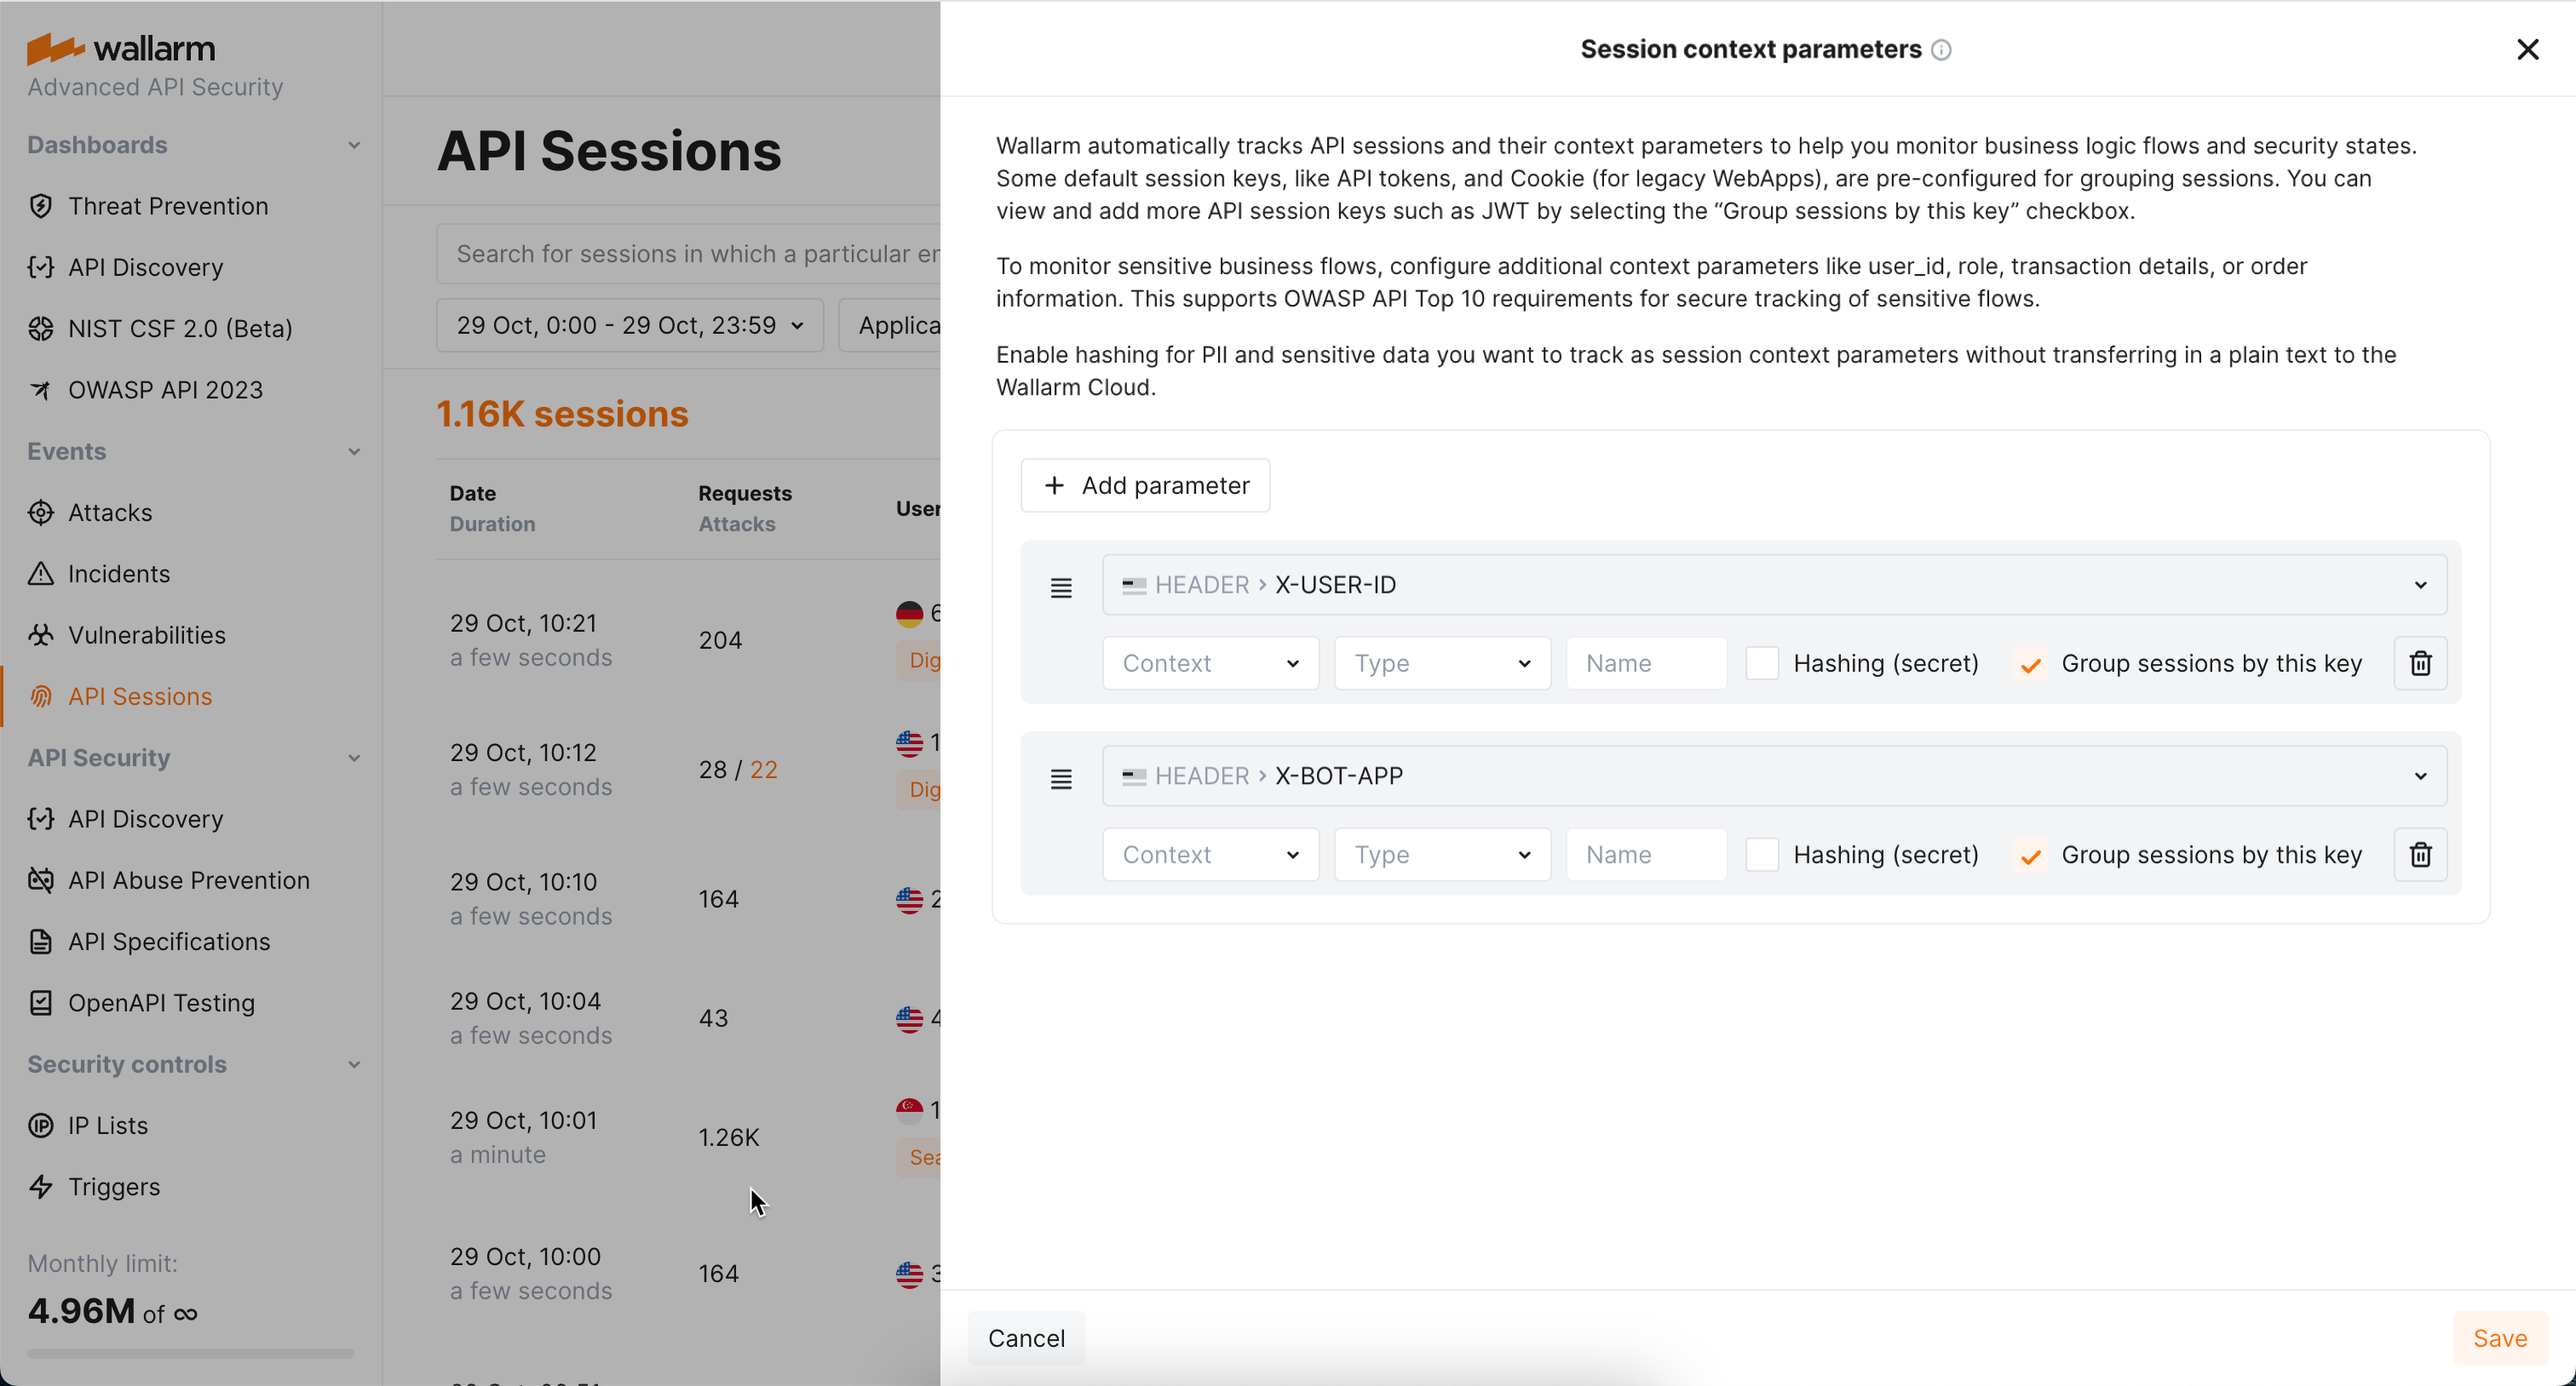
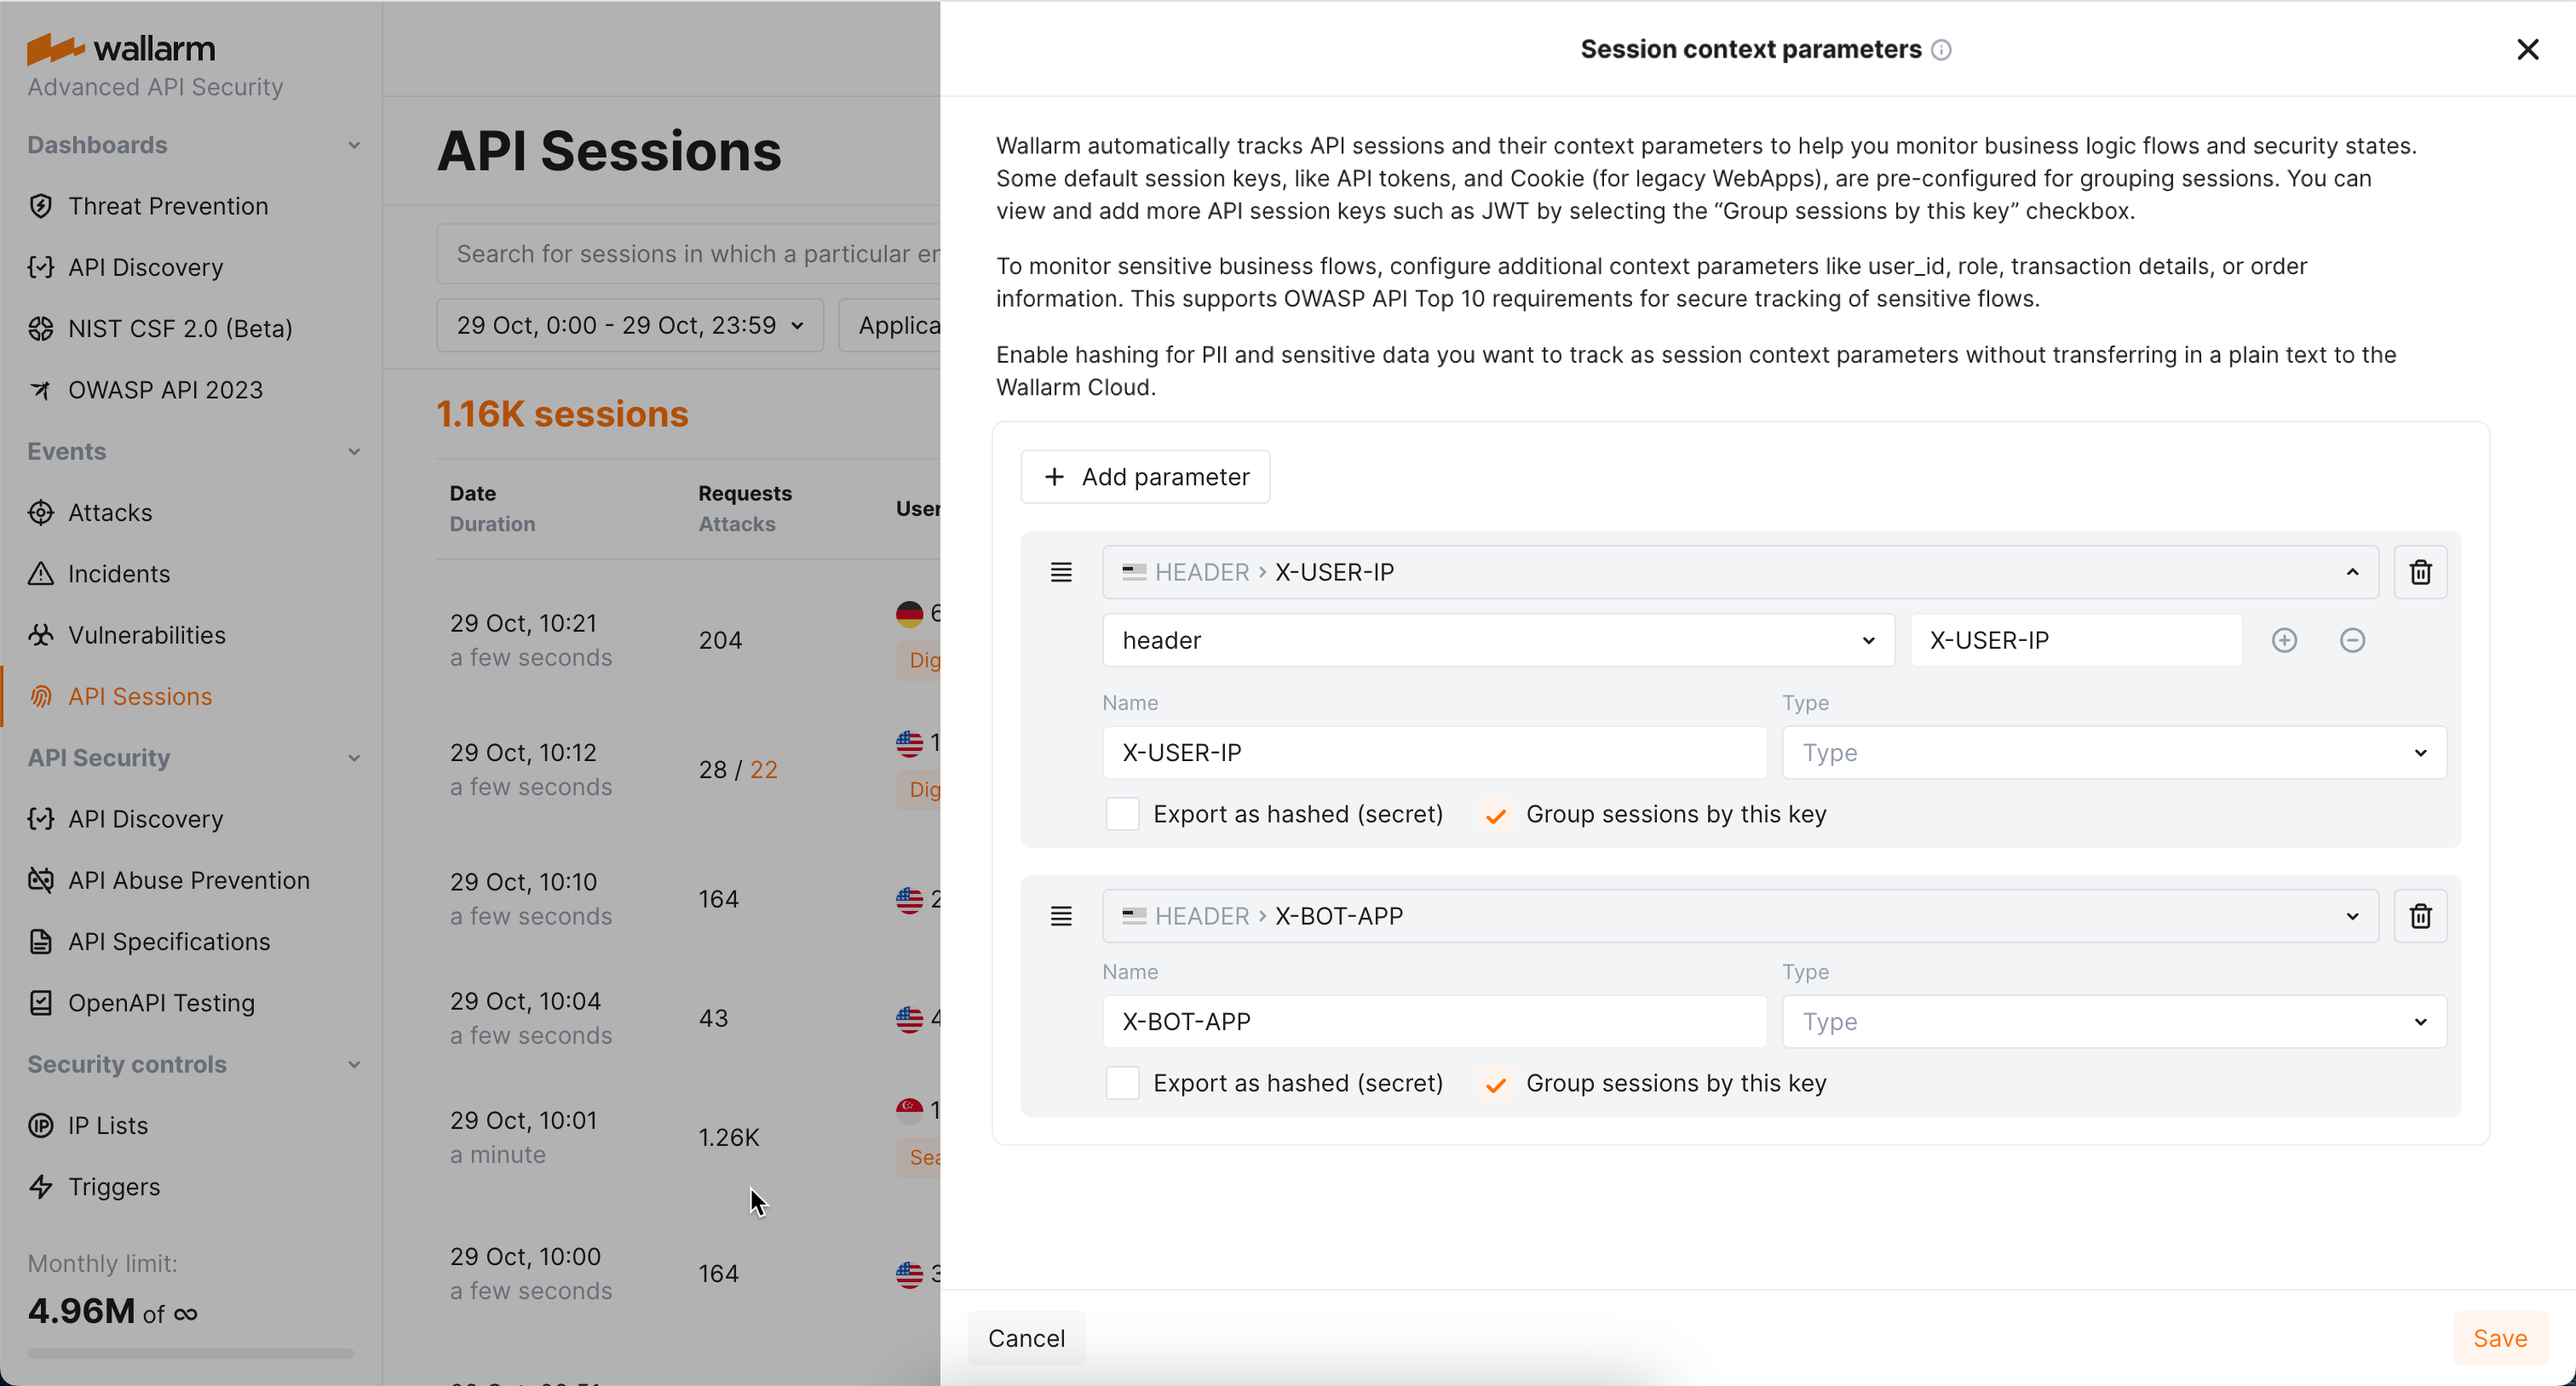
DOCS-2462 SBF and user attribution

diff --git a/docs/latest/api-discovery/sbf.md b/docs/latest/api-discovery/sbf.md
@@ -1,6 +1,6 @@
 # Sensitive Business Flows <a href="../../about-wallarm/subscription-plans/#waap-and-advanced-api-security"><img src="../../images/api-security-tag.svg" style="border: none;"></a>
 
-Wallarm's [API Discovery](overview.md) allows marking specific endpoints as the key ones for some sensitive business flows, such as authentication or account management, billing or SMS gateways functioning, and others. Learn from this article how to use the sensitive business flow functionality.
+Wallarm's [API Discovery](overview.md) automatically marks specific endpoints as the key ones for some sensitive business flows, such as authentication or account management, billing or SMS gateways functioning, and others. Learn from this article how to use the sensitive business flow functionality.
 
 ## Addressed issues
 
@@ -11,15 +11,9 @@ The abuse of the sensitive business flows is ranked six ([API6](https://owasp.or
 * Implement stronger security measures (e.g., encryption, authentication, access controls, and rate limits).
 * Easily produce audit trails and evidence of data protection measures.
 
-## Marking endpoints manually
+## Automatic marking
 
-To mark an endpoint as belonging to the sensitive business flow, in Wallarm Console, go to API Discovery, then for your endpoint, in the **Business flow & sensitive data**, select one or several flows from the list.
-
-![API Discovery - Sensitive business flows](../images/about-wallarm-waf/api-discovery/api-discovery-sbf.png)
-
-You can do the same in the endpoint details.
-
-The endpoint can belong to:
+At the moment when the new endpoint is discovered, API Discovery automatically checks if it potentially belongs to one or several sensitive business flows:
 
 * **Admin** (administrative) flows - endpoints related to applications' administrative functions and activities. Such endpoints are usually targeted by attackers in order to access functionality intended for privileged users only (BFLA), escalate privileges and gaining control over the system.
 * **Auth** (authentication) flows - endpoints critical to access control, as they verify user identity and manage permissions. As the entry point to the app, they are often the first target for attackers seeking to bypass security, gain unauthorized access, and take over accounts.
@@ -27,6 +21,26 @@ The endpoint can belong to:
 * **Billing** flows - sensitive due to usage and possible breach of critical personal financial data and susceptible to fraud.
 * **SMS GW** (SMS gateway) flows - endpoints sensitive because attackers can exploit them in SMS pumping attacks, flooding them with messages to inflate costs. Since these endpoints are connected to API gateways and payment systems, this can lead to financial loss and system overload.
 * **AI** (artificial intelligence) flows - related to the systems that use ML models, neural networks, chatbots or systems that in turn access some paid third-party AI services, such as OpenAI.
+
+Automatic checking is performed based on the keywords from the endpoint URL, for example, `payment`, `subscription` `purchase`, etc. for the **Billing** flow or `auth`, `token`, `login`, etc. for **Authentication**. If matches are found, the endpoint is automatically assigned to the corresponding flow(s).
+
+If necessary, later you can manually adjust the list of assigned business flows as described in the section below.
+
+## Marking endpoints manually
+
+To adjust the results of [automatic marking](#automatic-marking), you can manually edit the list of sensitive business flow the endpoint belongs to. You can also manually mark endpoints that do not directly fall under the keyword list.
+
+To edit the list of flows the endpoint belongs to, in Wallarm Console, go to API Discovery, then for your endpoint, in the **Business flow & sensitive data**, select one or several flows from the list.
+
+![API Discovery - Sensitive business flows](../images/about-wallarm-waf/api-discovery/api-discovery-sbf.png)
+
+You can do the same in the endpoint details.
+
+## Business flows in Sessions
+
+Wallarm's [API Sessions](../api-sessions/overview.md) group requests of your applications' traffic into user sessions. If some of these requests target the endpoints that in API Discovery were marked as important for some sensitive business flows, such session will be [marked](../api-sessions/setup.md#sensitive-business-flows) as affecting this business flow as well.
+
+![!API Sessions - sensitive business flows](../images/api-sessions/api-sessions-sbf-no-select.png)
 
 ## Filtering by business flow
 

diff --git a/docs/latest/api-sessions/setup.md b/docs/latest/api-sessions/setup.md
@@ -21,15 +21,28 @@ You can add any additional (context) [parameters](../user-guides/rules/request-p
 
 ### Sensitive business flows
 
-You can associate sessions with sensitive business flows. To do so, in Wallarm Console → **API Sessions** → **Session context parameters**, add your parameter and select **Context** for it.
+<!--You can associate sessions with sensitive business flows. To do so, in Wallarm Console → **API Sessions** → **Session context parameters**, add your parameter and select **Context** for it.
 
 ![!API Sessions - sensitive business flows](../images/api-sessions/api-sessions-sbf-select.png)
+-->
 
-### User and role
+If some of the session requests target the endpoints that in [API Discovery](../api-discovery/overview.md) were [marked](../api-discovery/sbf.md) as important for some sensitive business flows, such session will be marked as affecting this business flow as well.
 
-You can highlight session parameters, that should be used for naming the session actor (user) and its role. To do so, in Wallarm Console → **API Sessions** → **Session context parameters**, add your parameter, then from **Type**, select `User` or `Role`.
+![!API Sessions - sensitive business flows](../images/api-sessions/api-sessions-sbf-no-select.png)
 
-![!API Sessions - user and user role](../images/api-sessions/api-sessions-user-role-select.png)
+Wallarm lists business flows and displays number and percentage of requests related to the flow from the total number of session requests.
+
+Use the **Business flow** filter to quickly analyze all the sessions affecting specific flows.
+
+### Users and roles
+
+You can highlight session parameters, that should be used for naming the session user and its role. To do so, in Wallarm Console → **API Sessions** → **Session context parameters**, add your parameter, then from **Type**, select `User` or `Role`.
+
+![!API Sessions - user and user role setup](../images/api-sessions/api-sessions-user-role-select.png)
+
+Once you configured parameters to be used for user and his/her role identification, these parameters are started to be filled for the sessions. You can filter sessions by users and roles.
+
+![!API Sessions - user and user role display](../images/api-sessions/api-sessions-user-role-display.png)
 
 ## Session grouping
 

diff --git a/docs/latest/api-sessions/exploring.md b/docs/latest/api-sessions/exploring.md
@@ -45,6 +45,12 @@ Click **Explore in API Discovery** to switch to the endpoint information in the 
 
 Use the **Time,ms** and **Size,bytes** columns in the session request details to compare presented data with the average expected values. Significantly exceeded values signal about possible performance issues and bottlenecks and the possibility to optimize the user experience.
 
+## Sessions by users and roles
+
+If you [configured](setup.md#users-and-roles) API Sessions to obtain information on users and their roles, you can filter sessions by users and roles.
+
+![!API Sessions - user and user role display](../images/api-sessions/api-sessions-user-role-display.png)
+
 ## Verifying API abuse detection accuracy
 
 --8<-- "../include/bot-attack-full-context.md"

diff --git a/docs/latest/api-discovery/overview.md b/docs/latest/api-discovery/overview.md
@@ -92,13 +92,15 @@ API Discovery provides the ability to configure the detection process and add yo
 
 ### Sensitive business flows
 
-API Discovery allows [marking](sbf.md) specific endpoints as the key ones for some sensitive business flows, such as: 
+API Discovery automatically [marks](sbf.md) specific endpoints as the key ones for some sensitive business flows, such as: 
 
 * Authentication
 * Account management
 * Billing
 * SMS gateway functioning
 * ...and others
+
+You can manually adjust the assigned tags and manually set tags for the endpoints of your choice.
 
 Once tags are assigned, you can filter your endpoints by flow to regularly check them for vulnerabilities or breaches.
 
